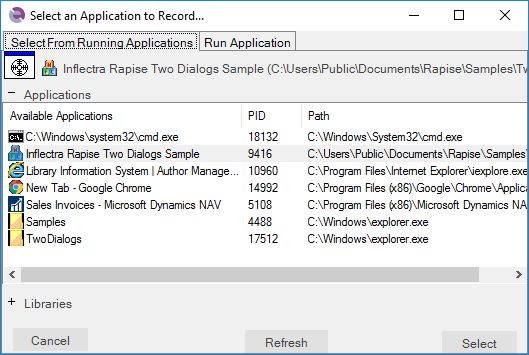
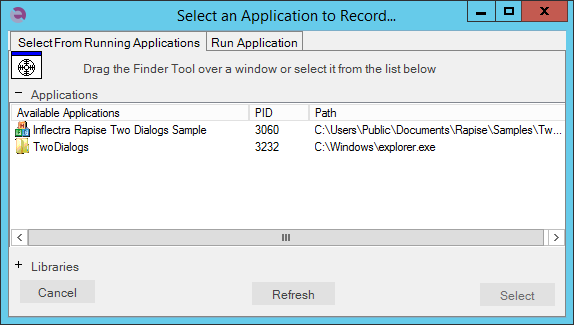
Select Application to Record topic updated

diff --git a/docs/Guide/select_an_application_to_record_dialog.md b/docs/Guide/select_an_application_to_record_dialog.md
@@ -4,13 +4,26 @@
 
 ## Purpose
 
-The **Select an Application to Record**... (SAR) Dialog appears before [Recording](recording.md) takes place when testing **desktop applications**.
+The **Select an Application to Record**... dialog appears before [Recording](recording.md) when testing **desktop applications**.
 
-It queries the user for which program to record, as well as what [Recording Library](recording_library.md) to use. If you are recording the same application for the second time then SAR is not shown. The recording proceeds to last used application if it is still available on the screen.
+It queries the user for which program to record, as well as what [Recording Library](recording_library.md) to use. If you are recording the same application for the second time then the dialog is not shown. The recording proceeds to last used application if it is still available on the screen.
 
 ## How To Open
 
-To open the SAR Dialog, press the **Record** button on the toolbar.
+To open the dialog, press the **Record** button on the toolbar.
+
+## Available Applications
+
+![select an application to record dialog, select application table](./img/select_an_application_to_record_dialog2.png)
+
+The **Available Applications** table lists all of the processes running at the time you open the **the dialog**.  If the process you would like to record is already open, you can select if from the table.
+
+If you do not see the application to record in the list you may
+
+1. Click **Refresh** button at the bottom of the dialog. It should help if you launched the application after opening the dialog.
+2. Use **Finder Tool** to manually point to the application window. It should help if the window is not shown in the Windows taskbar.
+
+<img src="/Guide/img/select_an_application_to_record_dialog_findertool.gif" width="530"/>
 
 ## Libraries
 
@@ -18,16 +31,10 @@ To open the SAR Dialog, press the **Record** button on the toolbar.
 
 The **Library** table lists the available Recording Libraries.  Select the one appropriate to the process/program you will record.  If you select **Auto**, Rapise will attempt to choose the correct recording library for you.  See the [Recording Library](recording_library.md) section for more information.
 
-## Available Applications
-
-![select an application to record dialog, select application table](./img/select_an_application_to_record_dialog2.png)
-
-The **Available Applications** table lists all of the processes running at the time you open the **SAR dialog**.  If the process you would like to record is already open, you can select if from the table.  Pick the appropriate recording library (above) first before you pick an application to record; your application choice will become unselected if you do not do it last.
-
 ## Dialog Buttons
 
 - The **Cancel** button closes the dialog.
-- **Refresh** button: Press to refresh the **Available Applications** table.  After refreshing, you will see processes that began after the **SAR dialog** was opened.
+- **Refresh** button: Press to refresh the **Available Applications** table.  After refreshing, you will see processes that began after the **dialog** was opened.
 - **Select** button: To record a process from the **Available Applications** table, select the process and then press the `Select` button.
 
 ## Run Application Tab
